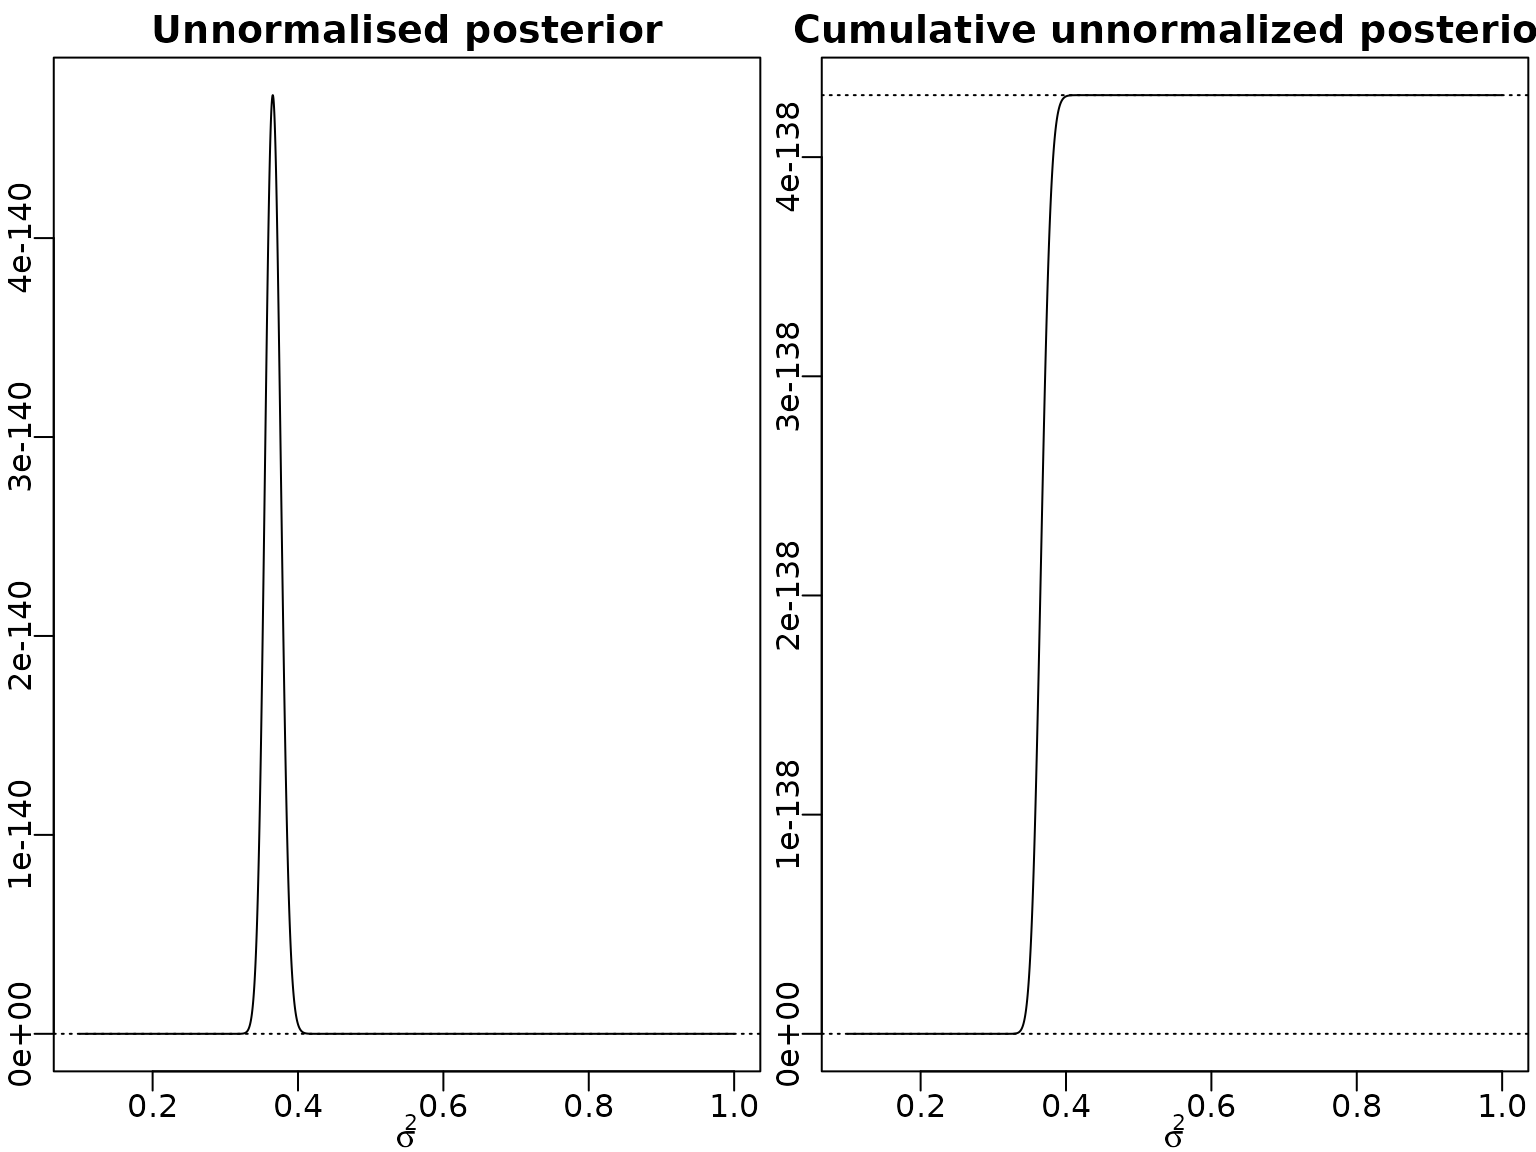
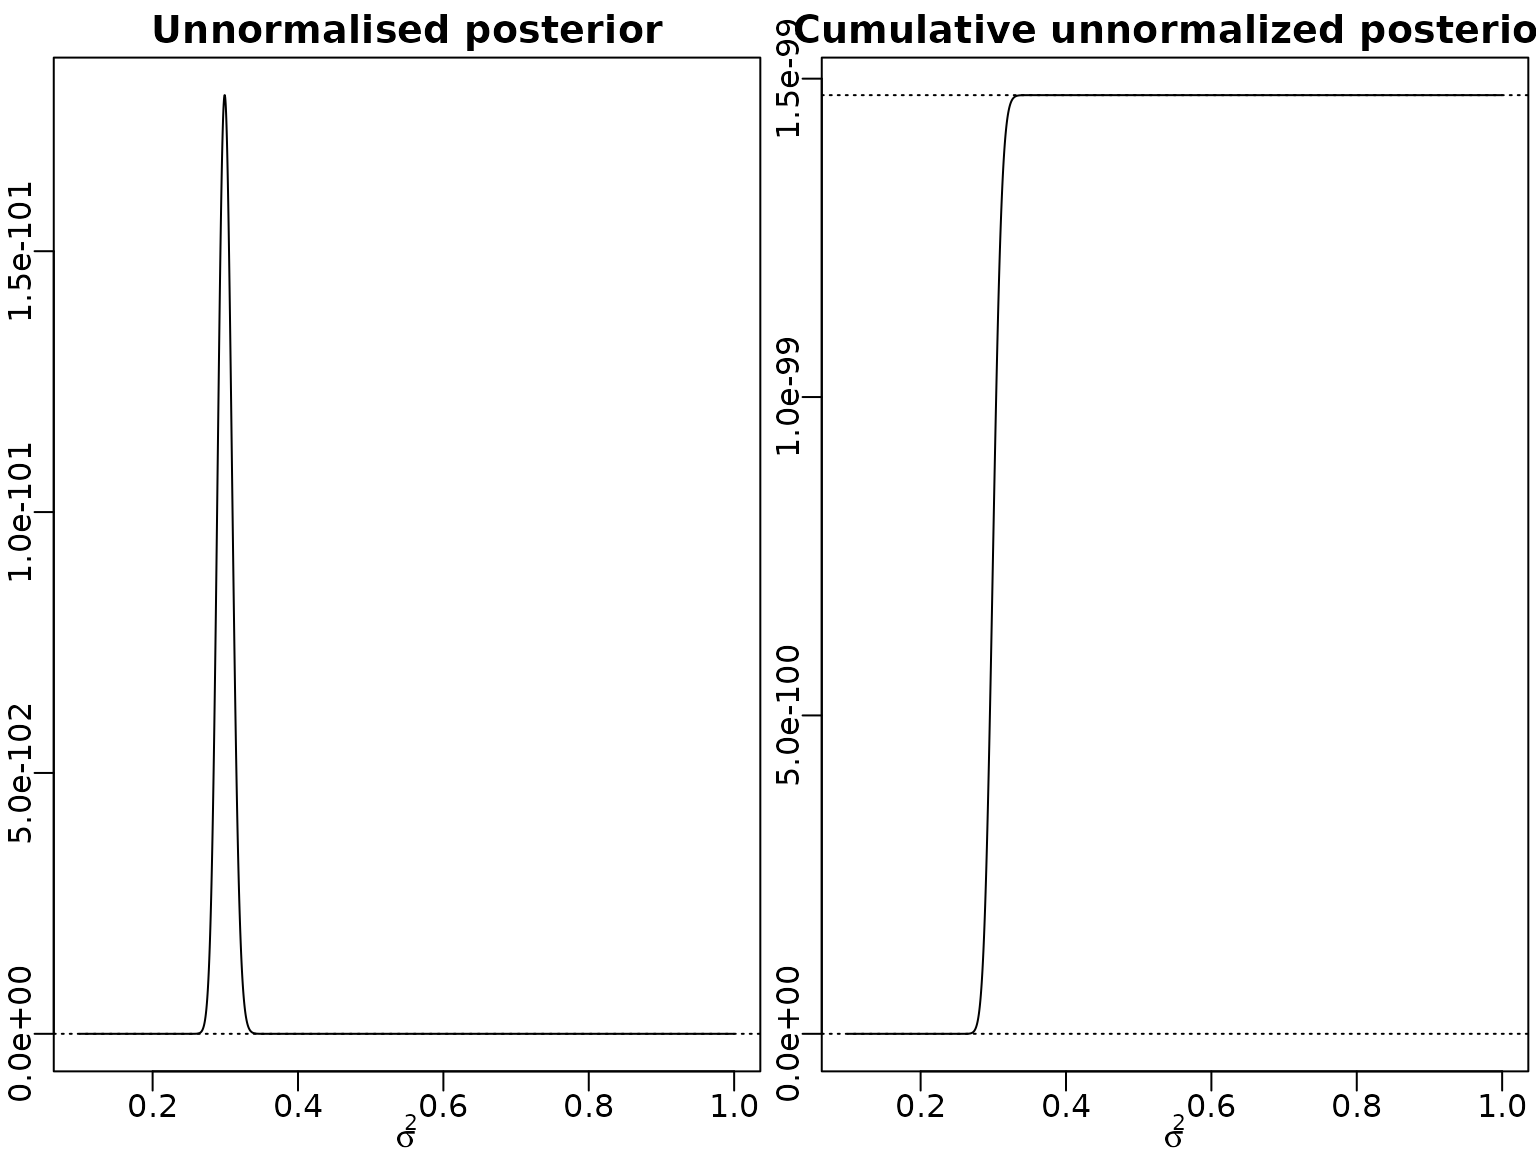
Deploying to gh-pages from @ gregorkastner/BayesianLearningCode@0dfdf7dfc3440dde3bb215c547d88531a2edf037 🚀

diff --git a/articles/Chapter04.html b/articles/Chapter04.html
@@ -267,17 +267,17 @@ Rather, it expects a scalar sigma2 and a data vector
 Albeit not very fast, we can vectorize this function using
 <em>Vectorize</em>.</p>
 <div class="sourceCode" id="cb5"><pre class="downlit sourceCode r">
-<code class="sourceCode R"><span><span class="va">nu</span> <span class="op">&lt;-</span> <span class="fl">8</span></span>
+<code class="sourceCode R"><span><span class="va">nu</span> <span class="op">&lt;-</span> <span class="fl">4</span></span>
 <span></span>
-<span><span class="va">post_unnormalized_nonvec</span> <span class="op">&lt;-</span> <span class="kw">function</span><span class="op">(</span><span class="va">sigma2</span>, <span class="va">dat</span>, <span class="va">nu</span>, <span class="va">log</span> <span class="op">=</span> <span class="cn">FALSE</span><span class="op">)</span> <span class="op">{</span></span>
+<span><span class="va">post_unnormalized_nonvec</span> <span class="op">&lt;-</span> <span class="kw">function</span><span class="op">(</span><span class="va">sigma2</span>, <span class="va">y</span>, <span class="va">nu</span>, <span class="va">log</span> <span class="op">=</span> <span class="cn">FALSE</span><span class="op">)</span> <span class="op">{</span></span>
 <span>  <span class="va">logdens</span> <span class="op">&lt;-</span> <span class="op">-</span><span class="fu"><a href="https://rdrr.io/r/base/length.html" class="external-link">length</a></span><span class="op">(</span><span class="va">y</span><span class="op">)</span> <span class="op">/</span> <span class="fl">2</span> <span class="op">*</span> <span class="fu"><a href="https://rdrr.io/r/base/Log.html" class="external-link">log</a></span><span class="op">(</span><span class="va">sigma2</span><span class="op">)</span> <span class="op">-</span></span>
-<span>    <span class="op">(</span><span class="va">nu</span> <span class="op">+</span> <span class="fl">1</span><span class="op">)</span> <span class="op">/</span> <span class="fl">2</span> <span class="op">*</span> <span class="fu"><a href="https://rdrr.io/r/base/sum.html" class="external-link">sum</a></span><span class="op">(</span><span class="fu"><a href="https://rdrr.io/r/base/Log.html" class="external-link">log</a></span><span class="op">(</span><span class="fl">1</span> <span class="op">+</span> <span class="va">dat</span><span class="op">^</span><span class="fl">2</span> <span class="op">/</span> <span class="op">(</span><span class="va">nu</span> <span class="op">*</span> <span class="va">sigma2</span><span class="op">)</span><span class="op">)</span><span class="op">)</span> <span class="op">-</span> <span class="fu"><a href="https://rdrr.io/r/base/Log.html" class="external-link">log</a></span><span class="op">(</span><span class="va">sigma2</span><span class="op">)</span></span>
+<span>    <span class="op">(</span><span class="va">nu</span> <span class="op">+</span> <span class="fl">1</span><span class="op">)</span> <span class="op">/</span> <span class="fl">2</span> <span class="op">*</span> <span class="fu"><a href="https://rdrr.io/r/base/sum.html" class="external-link">sum</a></span><span class="op">(</span><span class="fu"><a href="https://rdrr.io/r/base/Log.html" class="external-link">log</a></span><span class="op">(</span><span class="fl">1</span> <span class="op">+</span> <span class="va">y</span><span class="op">^</span><span class="fl">2</span> <span class="op">/</span> <span class="op">(</span><span class="va">nu</span> <span class="op">*</span> <span class="va">sigma2</span><span class="op">)</span><span class="op">)</span><span class="op">)</span> <span class="op">-</span> <span class="fu"><a href="https://rdrr.io/r/base/Log.html" class="external-link">log</a></span><span class="op">(</span><span class="va">sigma2</span><span class="op">)</span></span>
 <span>  <span class="kw">if</span> <span class="op">(</span><span class="va">log</span><span class="op">)</span> <span class="va">logdens</span> <span class="kw">else</span> <span class="fu"><a href="https://rdrr.io/r/base/Log.html" class="external-link">exp</a></span><span class="op">(</span><span class="va">logdens</span><span class="op">)</span></span>
 <span><span class="op">}</span></span>
 <span><span class="va">post_unnormalized</span> <span class="op">&lt;-</span> <span class="fu"><a href="https://rdrr.io/r/base/Vectorize.html" class="external-link">Vectorize</a></span><span class="op">(</span><span class="va">post_unnormalized_nonvec</span>, <span class="st">"sigma2"</span><span class="op">)</span></span>
 <span></span>
 <span><span class="va">sigma2</span> <span class="op">&lt;-</span> <span class="fu"><a href="https://rdrr.io/r/base/seq.html" class="external-link">seq</a></span><span class="op">(</span><span class="fl">0.1</span>, <span class="fl">1</span>, length.out <span class="op">=</span> <span class="fl">3000</span><span class="op">)</span></span>
-<span><span class="va">pdf_u</span> <span class="op">&lt;-</span> <span class="fu">post_unnormalized</span><span class="op">(</span><span class="va">sigma2</span>, dat <span class="op">=</span> <span class="va">y</span>, nu <span class="op">=</span> <span class="va">nu</span><span class="op">)</span></span>
+<span><span class="va">pdf_u</span> <span class="op">&lt;-</span> <span class="fu">post_unnormalized</span><span class="op">(</span><span class="va">sigma2</span>, y <span class="op">=</span> <span class="va">y</span>, nu <span class="op">=</span> <span class="va">nu</span><span class="op">)</span></span>
 <span></span>
 <span><span class="fu"><a href="https://rdrr.io/r/graphics/plot.default.html" class="external-link">plot</a></span><span class="op">(</span><span class="va">sigma2</span>, <span class="va">pdf_u</span>, type <span class="op">=</span> <span class="st">"l"</span>, xlab <span class="op">=</span> <span class="fu"><a href="https://rdrr.io/r/base/expression.html" class="external-link">expression</a></span><span class="op">(</span><span class="va">sigma</span><span class="op">^</span><span class="fl">2</span><span class="op">)</span>,</span>
 <span>     ylab <span class="op">=</span> <span class="st">""</span>, main <span class="op">=</span> <span class="st">"Unnormalised posterior"</span><span class="op">)</span></span>
@@ -301,7 +301,7 @@ particular, <em>rnorm</em>, can handle the so-called <em>varying
 parameter case</em>.</p>
 <div class="sourceCode" id="cb6"><pre class="downlit sourceCode r">
 <code class="sourceCode R"><span><span class="fu"><a href="https://rdrr.io/r/base/Random.html" class="external-link">set.seed</a></span><span class="op">(</span><span class="fl">42</span><span class="op">)</span></span>
-<span><span class="va">alpha</span> <span class="op">&lt;-</span> <span class="fl">0.005</span></span>
+<span><span class="va">alpha</span> <span class="op">&lt;-</span> <span class="fl">0.001</span></span>
 <span><span class="va">ndraws</span> <span class="op">&lt;-</span> <span class="fl">10000</span></span>
 <span><span class="va">sigma2draws</span> <span class="op">&lt;-</span> <span class="fl">1</span><span class="op">/</span><span class="fu"><a href="https://rdrr.io/r/stats/GammaDist.html" class="external-link">rgamma</a></span><span class="op">(</span><span class="va">ndraws</span>, <span class="va">cN</span>, <span class="va">CN</span><span class="op">)</span></span>
 <span><span class="va">mudraws</span> <span class="op">&lt;-</span> <span class="fu"><a href="https://rdrr.io/r/stats/Normal.html" class="external-link">rnorm</a></span><span class="op">(</span><span class="va">ndraws</span>, <span class="fu"><a href="https://rdrr.io/r/base/mean.html" class="external-link">mean</a></span><span class="op">(</span><span class="va">y</span><span class="op">)</span>, <span class="va">sigma2draws</span><span class="op">/</span><span class="fu"><a href="https://rdrr.io/r/base/length.html" class="external-link">length</a></span><span class="op">(</span><span class="va">y</span><span class="op">)</span><span class="op">)</span></span>
